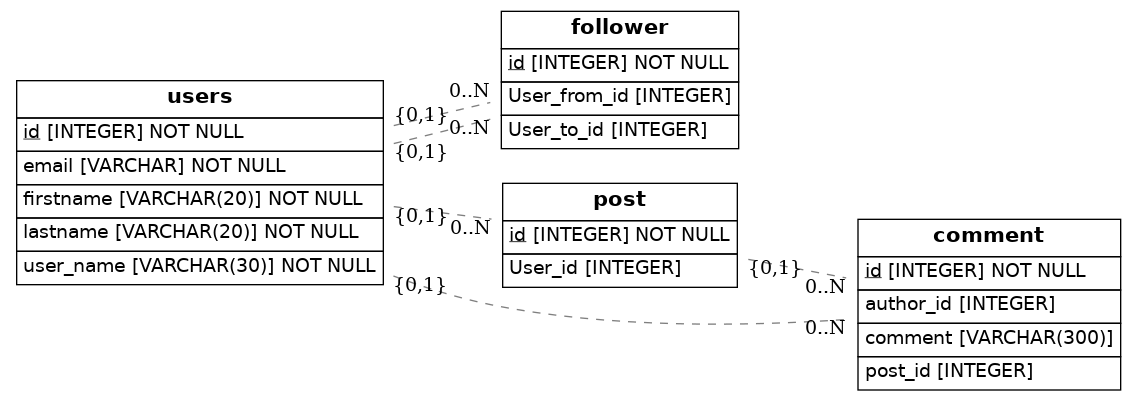
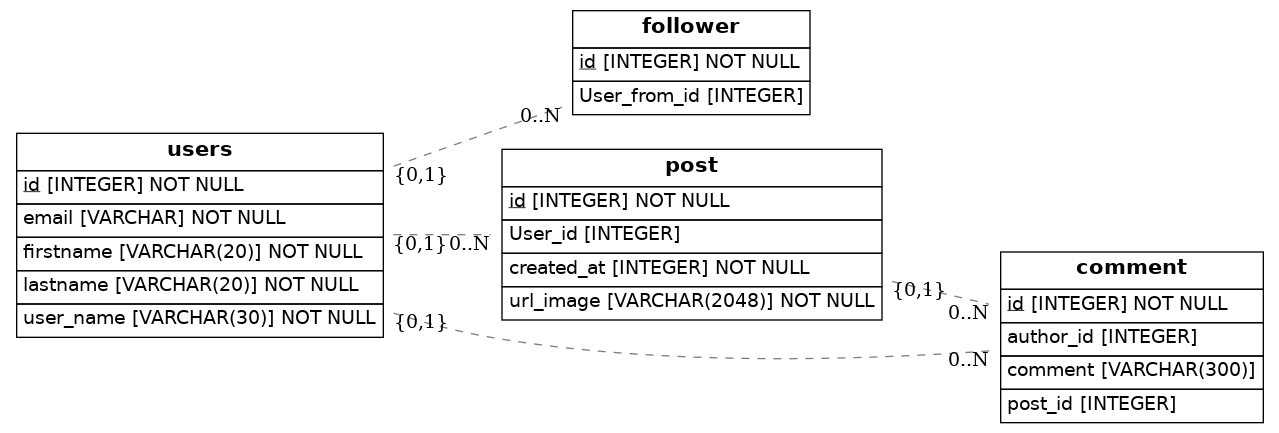
correciones hechas

Changed region(s): [[0.0, 0.0, 1.0, 0.9875], [0.493, 0.808, 0.5238, 0.8379]]

diff --git a/src/models.py b/src/models.py
@@ -19,15 +19,16 @@ class Follower(Base):
     __tablename__ = 'follower'
     id = Column(Integer, primary_key=True)
     User_from_id = Column(Integer, ForeignKey('users.id'))
-    user_from = relationship(Users) 
-    User_to_id = Column(Integer, ForeignKey('users.id')) 
-    user_to = relationship(Users)   
+    user_from = relationship(Users)   
 
 class Post(Base):
     __tablename__ = 'post'
     id = Column(Integer, primary_key=True)
     User_id = Column(Integer, ForeignKey('users.id'))
     users = relationship(Users) 
+    url_image = Column(String(2048), nullable=False)
+    created_at = Column(Integer, nullable=False)
+
 
 class Comment(Base):
     __tablename__ = 'comment'
